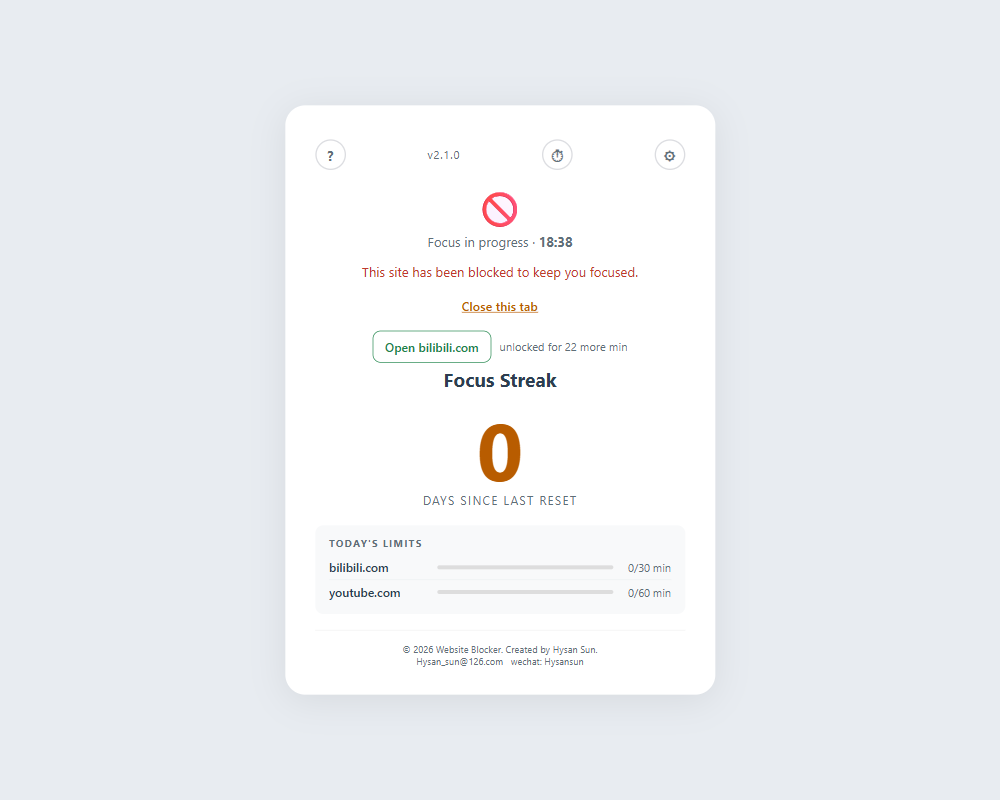
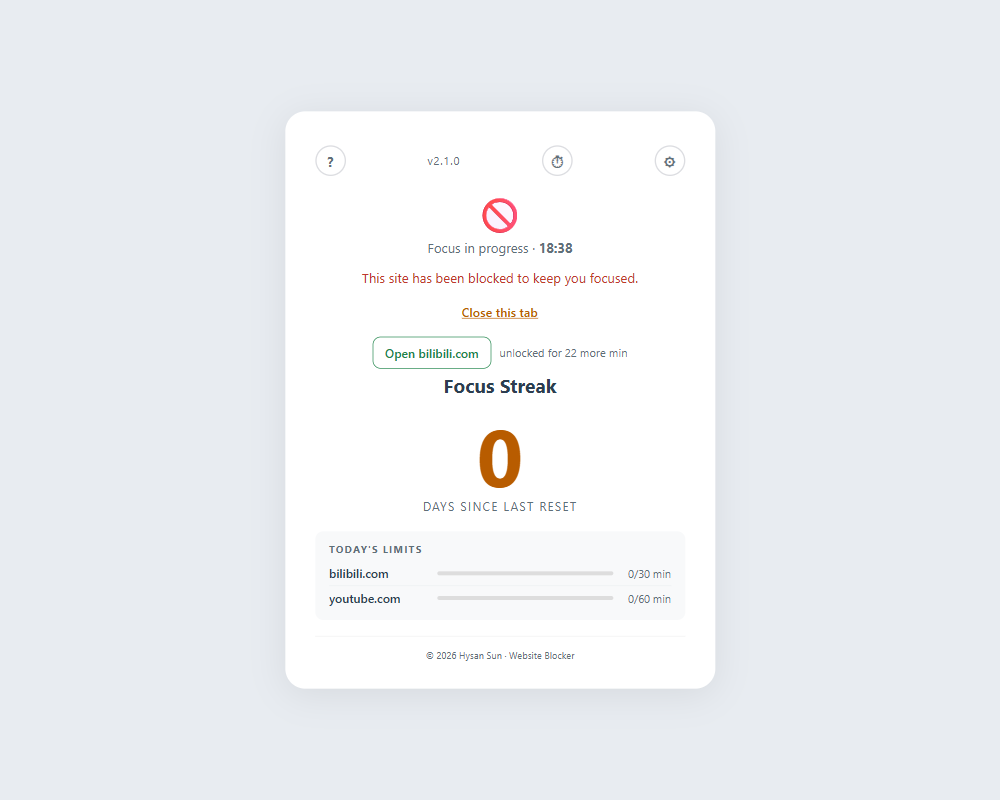
chore: keep the copyright line, drop the contact details
The footer said who made this and how to reach them. The second half is not
an authorship claim, it is an address a crawler can pick up, so it is gone.
The first half stays: "Copyright (c) 2026 Hysan Sun" is the notice that
travels with copies of this file, and MIT keeps the copyright - it only
grants permission to use it.

Reach the author through the repository's issue tracker instead.

docs/screenshots/blocked.png was regenerated, because the old one still
showed the address in the footer.

diff --git a/blockpage.html b/blockpage.html
@@ -387,9 +387,11 @@
     </div>
 
 
-    <!-- Footer -->
+    <!-- Footer. The copyright line is the authorship claim and travels with
+         copies of this file; the contact address does not, so it is not here.
+         Reach the author through the repository's issue tracker. -->
     <footer class="copyright">
-        &copy; 2026 Website Blocker. Created by Hysan Sun.
+        &copy; 2026 Hysan Sun &middot; Website Blocker
     </footer>
 
 </div>

diff --git a/README.md b/README.md
@@ -111,7 +111,7 @@ the rules you wrote; it never touches the DOM or anything you type.
 
 ## License
 
-[MIT](LICENSE).
+[MIT](LICENSE) &copy; 2026 Hysan Sun.
 
 ---
 
